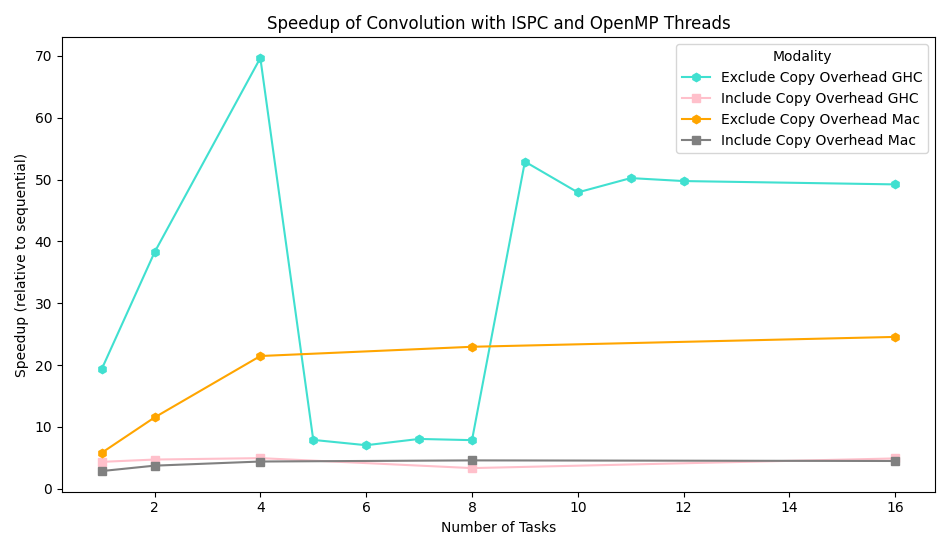
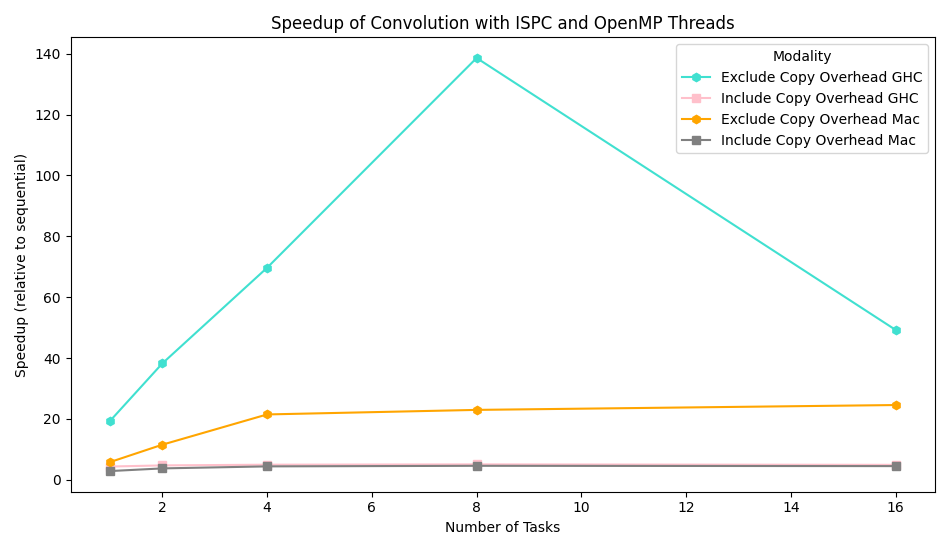
huzzah

diff --git a/scripts/createPlots.py b/scripts/createPlots.py
@@ -242,21 +242,14 @@ def plotOfISPCTaskSpeedup():
         [1, 19.296965],
         [2, 38.224314],
         [4, 69.666616],
-        [5, 7.896904],
-        [6, 7.037916],
-        [7, 8.051830],
-        [8, 7.856346],
-        [9, 52.906084],
-        [10, 47.927116],
-        [11, 50.240396],
-        [12, 49.760862],
+        [8, 138.597608],
         [16, 49.221255]
     ])
     GHCspeeds = np.array([
         [1, 4.344882],
         [2, 4.717940],
         [4, 4.948327],
-        [8, 3.335492],
+        [8, 5.054209],
         [16, 4.900920]
     ])
 
